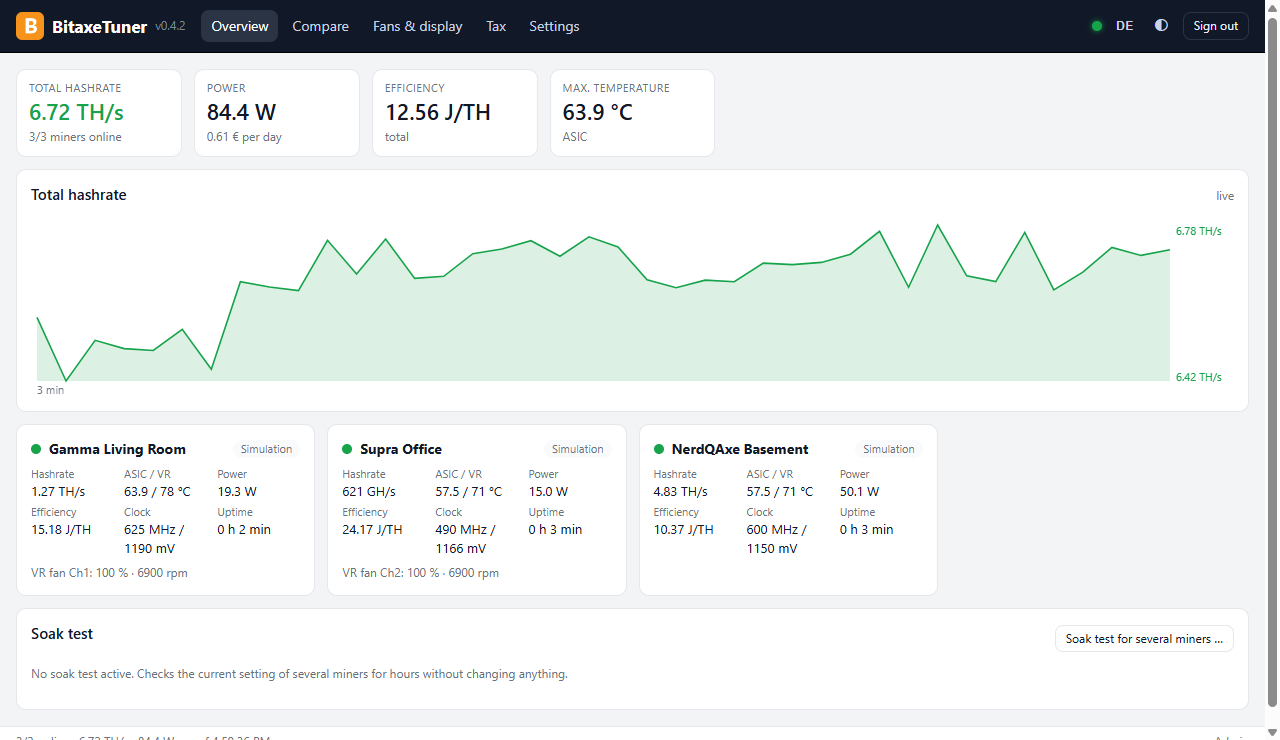
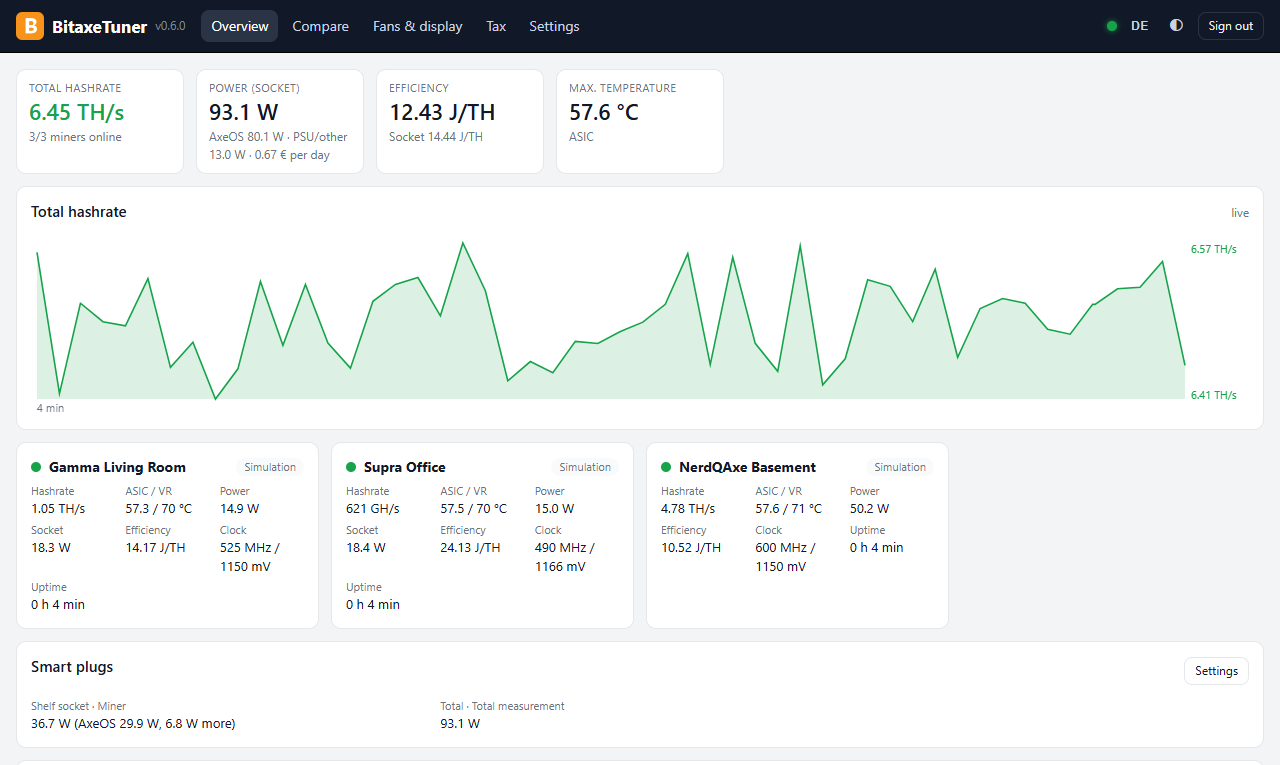
Webseite: Smart Plugs, Mehrere Miner, Steuer, Sprachen, neue Push-Dienste, SSH/Pi-Region; neue Übersichts-Screenshots

diff --git a/docs/index.html b/docs/index.html
@@ -111,7 +111,7 @@
       <span>Keine Cloud, keine Anmeldung</span>
       <span>Deutsch &amp; Englisch</span>
     </div>
-    <img class="shot-hero" src="assets/screen-overview.png" alt="Übersicht der Browser-Oberfläche mit drei Minern, Gesamt-Hashrate und laufendem Benchmark" width="1280" height="740">
+    <img class="shot-hero" src="assets/screen-overview.png" alt="Übersicht der Browser-Oberfläche mit drei Minern, Leistung an der Steckdose und Smart Plugs" width="1280" height="782">
   </div>
 </header>
 
@@ -124,11 +124,15 @@
       <div class="card"><div class="icon">⚡</div><h3>Automatischer Benchmark</h3><p>Frequenz und Spannung Schritt für Schritt testen, jede Kombination messen und die beste Einstellung finden – für Hashrate, Effizienz oder beides.</p></div>
       <div class="card"><div class="icon">🛡</div><h3>Sicher statt schnell</h3><p>Grenzwerte je Modell, Watchdog bei jedem Messwert, Abbruch bei Überhitzung. Jede Änderung nur nach Bestätigung mit altem und neuem Wert.</p></div>
       <div class="card"><div class="icon">🕒</div><h3>Rund um die Uhr</h3><p>Der Server läuft auf einem Raspberry Pi, einem Windows-Rechner oder im Docker-Container – dein PC darf aus sein.</p></div>
-      <div class="card"><div class="icon">📈</div><h3>Überwachung &amp; Push</h3><p>Verlauf, Offline- und Temperatur-Alarm, Pool-Wechsel, Log-Alarme, Best-Diff-Rekorde und Tagesbericht aufs Handy.</p></div>
+      <div class="card"><div class="icon">📈</div><h3>Überwachung &amp; Push</h3><p>Verlauf, Offline- und Temperatur-Alarm, Pool-Wechsel, Log-Alarme, Best-Diff-Rekorde und Tagesbericht aufs Handy – per ntfy, Telegram, Discord, Pushover oder eigenem Webhook.</p></div>
       <div class="card"><div class="icon">💡</div><h3>Effizienz-Ratgeber</h3><p>Zeigt je Miner die beste geprüfte Einstellung und was sie pro Monat an Strom spart – angewendet wird nur nach deiner Bestätigung.</p></div>
       <div class="card"><div class="icon">⏱</div><h3>Dauertest</h3><p>Prüft eine Einstellung über Stunden – für einen oder alle Miner auf einmal – und schlägt bei Problemen eine stabilere vor.</p></div>
       <div class="card"><div class="icon">🏠</div><h3>Home Assistant</h3><p>Alle Werte per MQTT mit automatischer Geräteerkennung. Frequenz und Spannung bleiben dabei tabu.</p></div>
+      <div class="card"><div class="icon">🔌</div><h3>Smart Plugs</h3><p>Shelly-Steckdosen messen den echten Verbrauch inklusive Netzteil und Zusatzlüftern. Kosten – auf Wunsch mit Stundenpreisen von aWATTar oder Tibber –, Effizienz und Tagesbericht rechnen damit; Mehrverbrauch wird gemeldet.</p></div>
+      <div class="card"><div class="icon">🧭</div><h3>Mehrere Miner auf einmal</h3><p>Miner im Heimnetz suchen und hinzufügen, Pool und Lüfter von einem Miner auf andere übertragen – mit Vorschau und Sicherung, Frequenz und Spannung nie.</p></div>
       <div class="card"><div class="icon">💾</div><h3>Tägliche Sicherung</h3><p>Geprüfte Sicherung auf USB-Stick, Netzlaufwerk oder deinen PC. Passwörter werden nie mitgesichert.</p></div>
+      <div class="card"><div class="icon">🧾</div><h3>Steuer-Übersicht</h3><p>Zuflüsse mit Euro-Kurs, Verkäufe mit Haltefrist (FIFO) und CSV-Export – nach deutschem Steuerrecht (§ 23 EStG).</p></div>
+      <div class="card"><div class="icon">🌍</div><h3>Deutsch &amp; English</h3><p>Oberfläche, Push-Meldungen, Tagesbericht und E-Paper wahlweise auf Deutsch oder Englisch; Zahlen und Datum im Format deines Systems.</p></div>
     </div>
   </div>
 </section>
@@ -139,7 +143,8 @@
       <h2>Im Browser, auf dem Handy, am PC</h2>
       <p class="sub" style="margin-bottom:12px">Der BitaxeTuner-Server bringt eine vollständige Oberfläche mit. Die Windows-App kann sie einbetten oder alles selbst erledigen.</p>
       <ul class="check">
-        <li>Fertiges SD-Karten-Image für den Raspberry Pi – WLAN, Benutzer und deine Daten richtet die App ein</li>
+        <li>Fertiges SD-Karten-Image für den Raspberry Pi – WLAN, Benutzer, Land/Zeitzone/Tastatur und deine Daten richtet die App ein</li>
+        <li>SSH ohne Passwort: Schlüssel und Terminal direkt aus der Windows-App</li>
         <li>Windows-Dienst oder Docker-Container (NAS, Home-Server)</li>
         <li>Passwort, Nur-Ansehen-PIN und API-Tokens; nur im Heimnetz erreichbar</li>
         <li>Einmaliger, geprüfter Umzug deiner Daten vom PC auf den Server – und zurück</li>

diff --git a/docs/en/index.html b/docs/en/index.html
@@ -111,7 +111,7 @@
       <span>No cloud, no account</span>
       <span>English &amp; German</span>
     </div>
-    <img class="shot-hero" src="../assets/en/screen-overview.png" alt="Overview of the browser interface with several miners and total hashrate" width="1280" height="740">
+    <img class="shot-hero" src="../assets/en/screen-overview.png" alt="Overview of the browser interface with three miners, power at the socket and smart plugs" width="1280" height="765">
   </div>
 </header>
 
@@ -124,11 +124,15 @@
       <div class="card"><div class="icon">⚡</div><h3>Automatic benchmark</h3><p>Tests frequency and voltage step by step, measures every combination and finds the best setting – for hashrate, efficiency or both.</p></div>
       <div class="card"><div class="icon">🛡</div><h3>Safe, not just fast</h3><p>Limits per model, a watchdog on every sample, stop on overheating. Every change only after confirmation showing the old and new value.</p></div>
       <div class="card"><div class="icon">🕒</div><h3>Around the clock</h3><p>The server runs on a Raspberry Pi, a Windows machine or in a Docker container – your PC can be switched off.</p></div>
-      <div class="card"><div class="icon">📈</div><h3>Monitoring &amp; push</h3><p>History, offline and temperature alerts, pool changes, log alerts, best diff records and a daily report on your phone.</p></div>
+      <div class="card"><div class="icon">📈</div><h3>Monitoring &amp; push</h3><p>History, offline and temperature alerts, pool changes, log alerts, best diff records and a daily report on your phone – via ntfy, Telegram, Discord, Pushover or your own webhook.</p></div>
       <div class="card"><div class="icon">💡</div><h3>Efficiency advisor</h3><p>Shows the best tested setting per miner and how much power it saves per month – applied only after your confirmation.</p></div>
       <div class="card"><div class="icon">⏱</div><h3>Soak test</h3><p>Checks a setting for hours – for one or all miners at once – and suggests a more stable one if there are problems.</p></div>
       <div class="card"><div class="icon">🏠</div><h3>Home Assistant</h3><p>All values via MQTT with automatic device discovery. Frequency and voltage stay off-limits.</p></div>
+      <div class="card"><div class="icon">🔌</div><h3>Smart plugs</h3><p>Shelly plugs measure the real consumption including power supply and extra fans. Costs – optionally with hourly prices from aWATTar or Tibber –, efficiency and the daily report use it; extra consumption is reported.</p></div>
+      <div class="card"><div class="icon">🧭</div><h3>Many miners at once</h3><p>Find and add miners in your home network, copy pool and fan settings from one miner to others – with preview and backup, never frequency or voltage.</p></div>
       <div class="card"><div class="icon">💾</div><h3>Daily backup</h3><p>Verified backup to a USB stick, network drive or your PC. Passwords are never included.</p></div>
+      <div class="card"><div class="icon">🧾</div><h3>Tax overview</h3><p>Income with EUR rate, sales with holding period (FIFO) and CSV export – according to German tax law (§ 23 EStG).</p></div>
+      <div class="card"><div class="icon">🌍</div><h3>English &amp; German</h3><p>Interface, push messages, daily report and e-paper in English or German; numbers and dates in your system's format.</p></div>
     </div>
   </div>
 </section>
@@ -139,7 +143,8 @@
       <h2>In the browser, on your phone, on the PC</h2>
       <p class="sub" style="margin-bottom:12px">The BitaxeTuner server comes with a complete interface. The Windows app can embed it or do everything by itself.</p>
       <ul class="check">
-        <li>Ready-made SD card image for the Raspberry Pi – the app sets up Wi-Fi, user and your data</li>
+        <li>Ready-made SD card image for the Raspberry Pi – the app sets up Wi-Fi, user, country/time zone/keyboard and your data</li>
+        <li>Password-less SSH: key and terminal straight from the Windows app</li>
         <li>Windows service or Docker container (NAS, home server)</li>
         <li>Password, view-only PIN and API tokens; reachable only on your home network</li>
         <li>One-time, verified move of your data from the PC to the server – and back</li>
